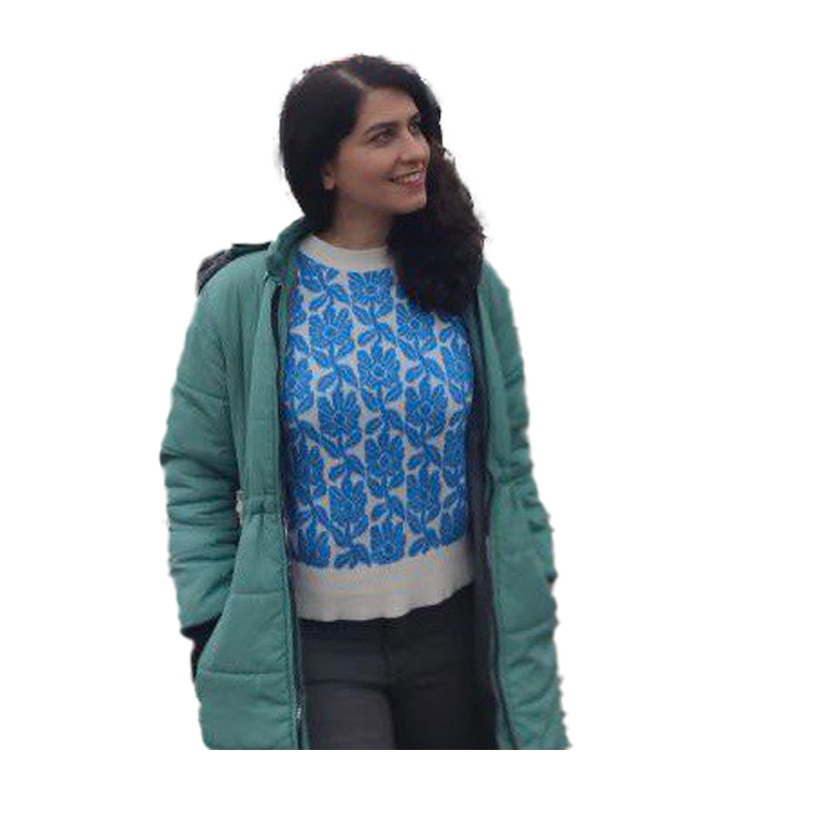
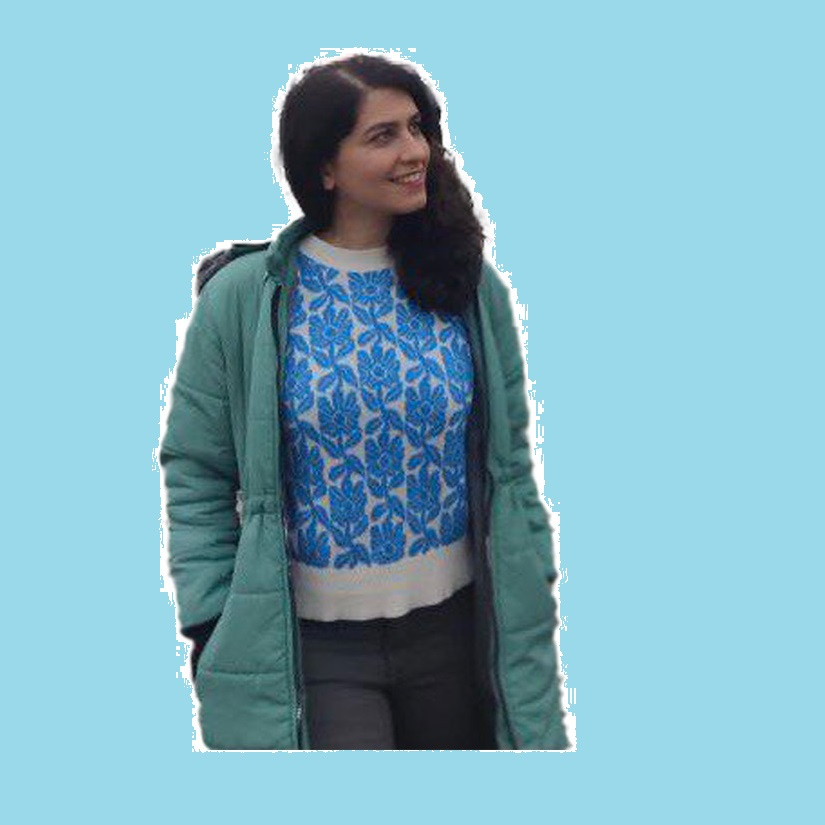
about-section

diff --git a/src/components/about/about.css b/src/components/about/about.css
@@ -1,16 +1,121 @@
-.myPic{
-    background: var(--color-primary);  
-    width: 22rem;
-    height: 30rem; 
-    border-radius: 10px;
+.about_container{
+    display: grid;
+    grid-template-columns: 35% 50%;
+    gap :15%;
+    
 }
-.image-about{
-    width: 22rem;
-    height: 30rem;
-    border-radius: 10px;
-    background: var(--color-primary);
-    -webkit-border-radius: 10px;
-    -moz-border-radius: 10px;
-    -ms-border-radius: 10px;
-    -o-border-radius: 10px;
+
+.about_img{
+   width: 100%;
+   aspect-ratio: 1/1;
+   display: grid;
+   background: linear-gradient(45deg,transparent,var(--color-primary),transparent);
+   border-radius: 2rem;
+   -webkit-border-radius: 2rem;
+   -moz-border-radius: 2rem;
+   -ms-border-radius: 2rem;
+   -o-border-radius: 2rem;
+   place-items: center;
+}
+.about_img_myPic{
+    border-radius: 2rem;
+    -webkit-border-radius: 2rem;
+    -moz-border-radius: 2rem;
+    -ms-border-radius: 2rem;
+    -o-border-radius: 2rem;
+    transform: rotate(10deg);
+    -webkit-transform: rotate(10deg);
+    -moz-transform: rotate(10deg);
+    -ms-transform: rotate(10deg);
+    -o-transform: rotate(10deg);
+     transition: var(--transition);
+    -webkit-transition: var(--transition);
+    -moz-transition: var(--transition);
+    -ms-transition: var(--transition);
+    -o-transition: var(--transition);
+}
+.about_img_myPic:hover{
+    transform: rotate(0deg);
+    -webkit-transform: rotate(0deg);
+    -moz-transform: rotate(0deg);
+    -ms-transform: rotate(0deg);
+    -o-transform: rotate(0deg);
+}
+.about-cards{
+    display: grid;
+    grid-template-columns: repeat(2,1fr);
+    gap:3rem;
+    margin-bottom: 1.5rem;
+}
+.about-card{
+    border: 1px solid transparent;
+    background: var(--color-bg-variant);
+    padding: 1.5rem;
+    text-align: center;
+    line-height: 1rem;
+    border-radius: 1rem;
+    -webkit-border-radius: 1rem;
+    -moz-border-radius: 1rem;
+    -ms-border-radius: 1rem;
+    -o-border-radius: 1rem;
+    transition: var(--transition);
+    -webkit-transition: var(--transition);
+    -moz-transition: var(--transition);
+    -ms-transition: var(--transition);
+    -o-transition: var(--transition);
+}
+.about-card:hover{
+    background:var(--color-white);
+    color: var(--color-bg);
+    cursor: pointer;
+}
+.about_icon{
+    color: var(--color-primary);
+    margin-bottom: 1rem;
+    font-size: 1.4rem;
+}
+.about-card h5{
+    font-size: 0.95rem;
+    margin-bottom: 0.7rem;
+}
+.about-card small{
+    font-size: 0.6rem;
+    color: var( --color-light);
+}
+
+p{
+    margin: 2rem 0 2.6rem;
+    font-size: 0.9rem;
+    font-weight: lighter;
+    color: var( --color-light);
+    text-align: justify;
+}
+/* =============================MediaQuery Medium====================================*/
+@media screen and (max-width: 1024px) {
+ .about_container{
+    grid-template-columns: 1fr;
+    gap: 0;
+ }
+ .about_img{
+    width: 50%;
+    margin:2rem auto 4rem;
+ }
+ p{margin: 1rem 0 1.5rem;}
+}
+/* =============================MediaQuery Small====================================*/
+@media screen and (max-width: 600px) {
+    .about_img{
+        width: 65%;
+        margin: 0 auto 3rem
+    }
+.about-cards{
+    margin: 0 1rem;
+}
+.about_content {
+text-align: center;
+}
+p{
+    margin: 0.5rem;
+    font-size: 0.8rem;
+}
 }

diff --git a/src/components/about/About.jsx b/src/components/about/About.jsx
@@ -1,15 +1,47 @@
 import React from "react";
-import myPic from "../../asset/3.jpg";
+import myPic from "../../asset/2.jpg";
+import { BsAward } from "react-icons/bs";
+import { AiFillFolderOpen } from "react-icons/ai";
 import "./about.css";
 
 const About = () => {
   return (
     <section id="about" className="about-section">
-      <div className="myPic">
-        <img src={myPic} alt="about-myPic" className="image-about" />
-      </div>
-      <div>
-        <div className="about-card"></div>
+      <h5>Get to know</h5>
+      <h2>About me</h2>
+      <div className="container about_container">
+        <div className="about_img">
+          <div>
+            <img src={myPic} alt="about-myPic" className="about_img_myPic" />
+          </div>
+        </div>
+        <div>
+          <div className="about-cards">
+            <article className="about-card">
+              <BsAward className="about_icon" />
+              <h5>Experience</h5>
+              <small>+6 years</small>
+            </article>
+            <article className="about-card">
+              <AiFillFolderOpen className="about_icon" />
+              <h5>Projects</h5>
+              <small>In backend and frontend</small>
+            </article>
+          </div>
+          <div className="about_content">
+            <p>
+              Passionate, driven, and competitive front-end developer with more
+              than 6 years of experience as a software engineer with a
+              demonstrated history of working in the information technology and
+              services industry. Skilled in markup languages, e.g., Html, CSS,
+              and scripting languages such as JavaScript and related frameworks
+              like Bootstrap. Experienced proactively in React JS.
+            </p>
+            <a href="#contact" className="btn btn-primary">
+              Let's talk
+            </a>
+          </div>
+        </div>
       </div>
     </section>
   );
